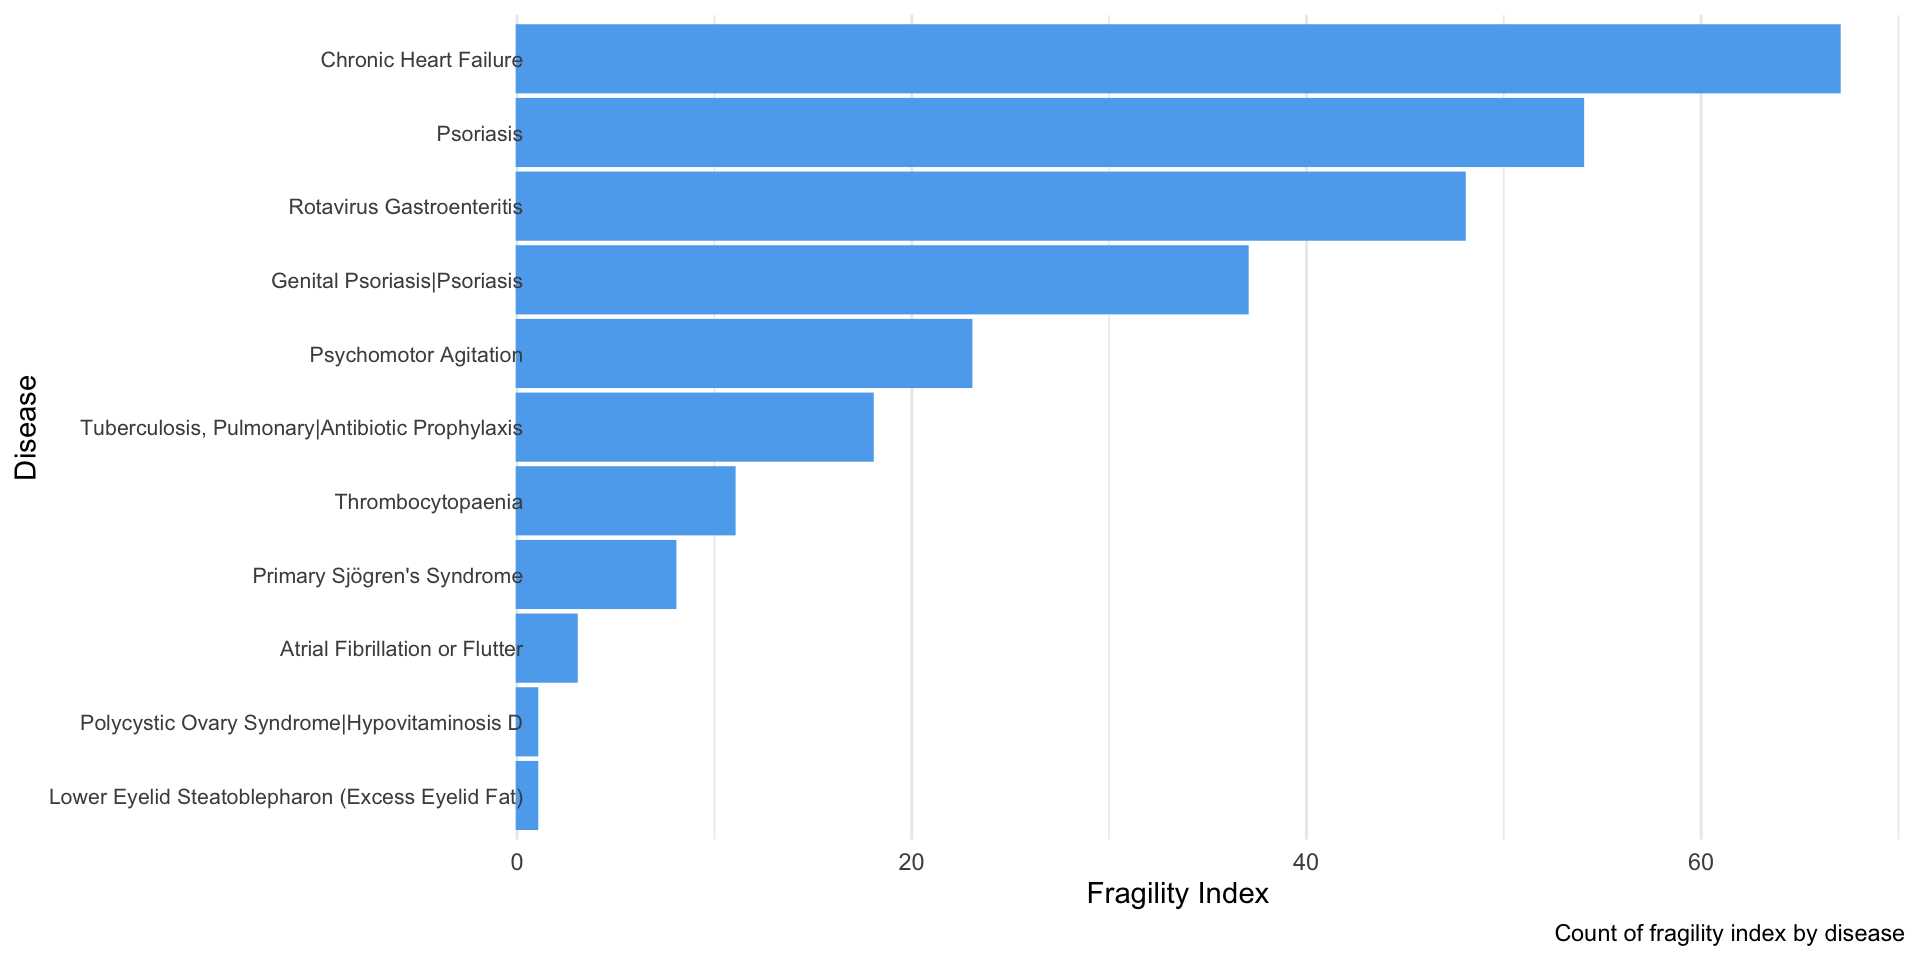
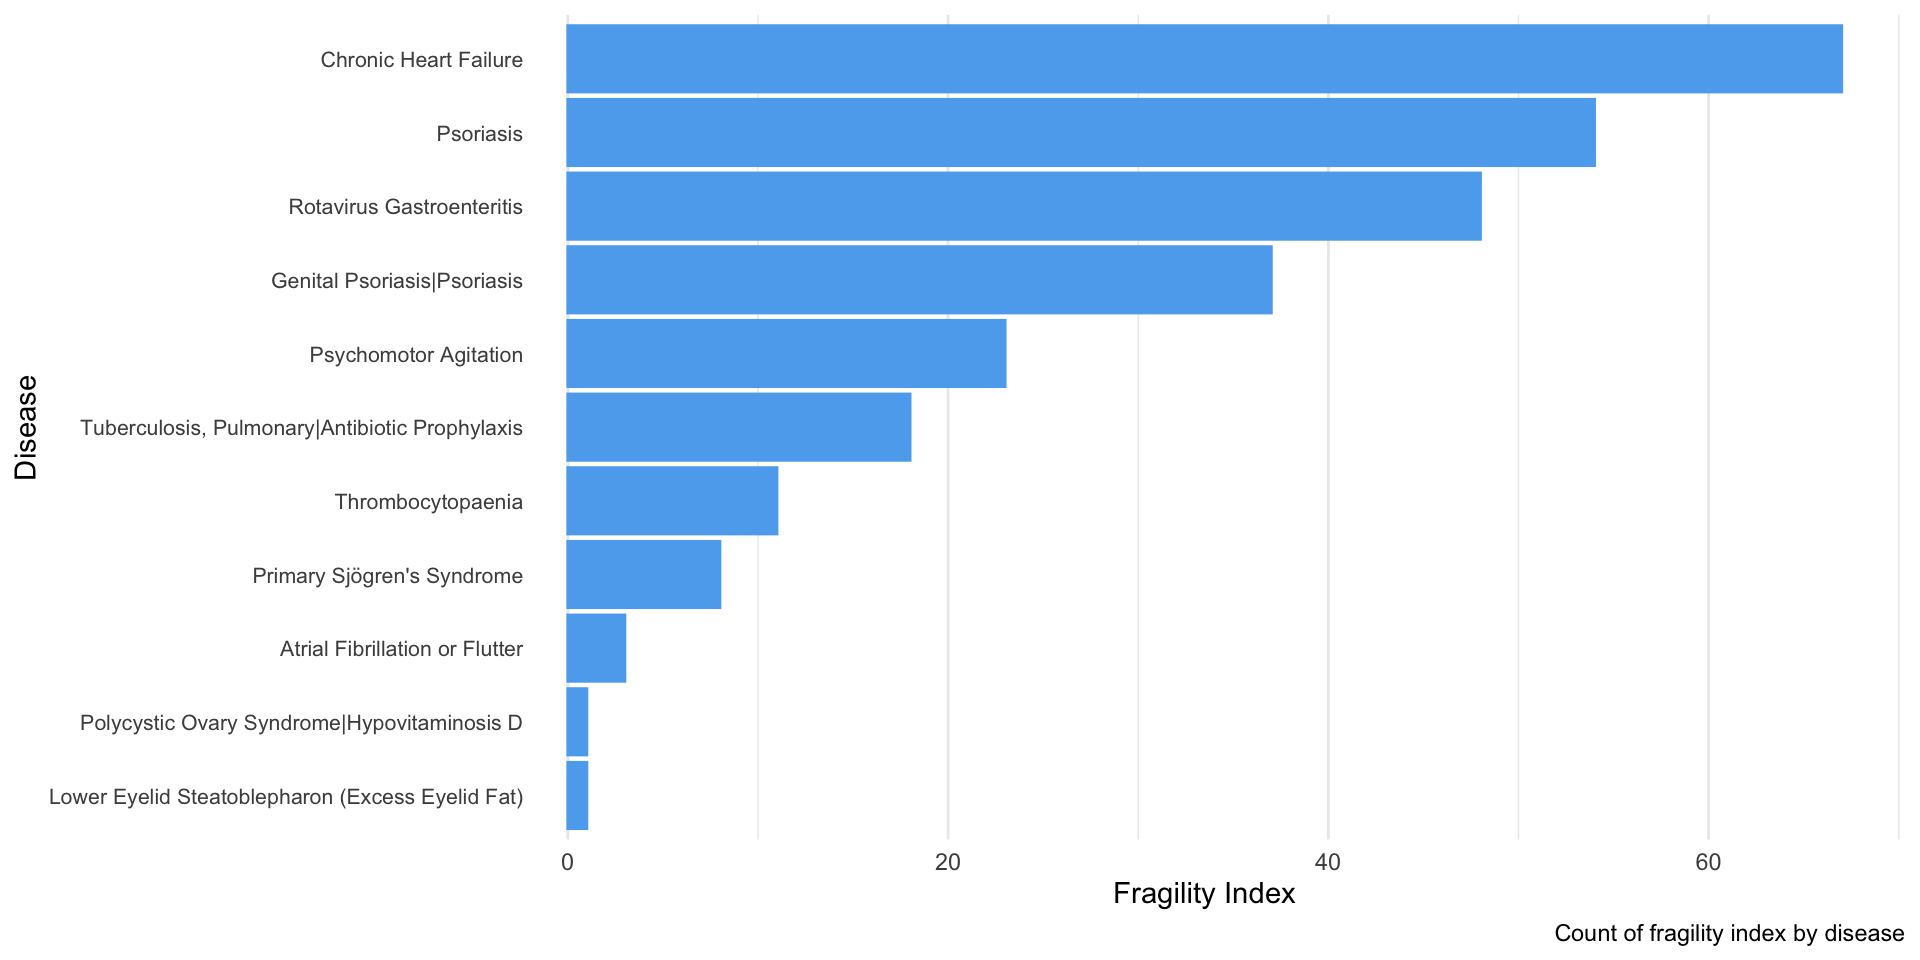
added minor changes to report

diff --git a/report.html b/report.html
@@ -652,7 +652,7 @@ content_test</code></pre>
 ## *                     &lt;dbl&gt;                      &lt;dbl&gt;                &lt;dbl&gt;
 ## 1                       212                        207                  200
 ## 2                       129                        131                   59</code></pre>
-<p>Though it took a while, our code managed to pull the relevant info that we need to manipulate in order to evaluate our fragility indexes. Our next step then, is to be able to <code>map</code> this and make a listcol within our original dataframe.</p>
+<p>Though it took a while, our code managed to pull the relevant info that we need to manipulate in order to evaluate our fragility indexes. Our next step then, is to be able to <code>map</code> this and make a listcol within our original dataframe. <br></br></p>
 </div>
 <div id="building-the-function-with-the-proper-conditions-and-mapping" class="section level5">
 <h5>Building the function with the proper conditions and mapping</h5>
@@ -715,7 +715,7 @@ mapped_ctgov_scrape_test &lt;- ctgov_scrape_test %&gt;%
     scrape_data = map(nct_id, outcome_extractor)
   ) %&gt;% 
   filter(!is.na(scrape_data))               # necessary step to clear out the NA rows.</code></pre>
-<p>We then checked those trials that contain 2x2 table from our original file but we only found 6 (uh oh). After realizing the situation we were in (yikes) and the amount of data we were likely able to get using the initial hypothesis (close to none), we expanded our initial search options to any completed phase 3 clinical trials.</p>
+<p>We then checked those trials that contain 2x2 table from our original file but we only found 6 (uh oh). After realizing the situation we were in (yikes) and the amount of data we were likely able to get using the initial hypothesis (close to none), we expanded our initial search options to any completed phase 3 clinical trials. <br></br></p>
 </div>
 <div id="mapping-our-10000-dataset" class="section level5">
 <h5>Mapping our 10,000 dataset</h5>
@@ -736,7 +736,7 @@ ctgov_10k_scraped &lt;- ctgov_10k_df %&gt;%
     scrape_data = map(nct_id, outcome_extractor)
   ) %&gt;% 
   filter(!is.na(scrape_data))               # necessary step to clear out the NA rows.</code></pre>
-<p>After all this, our resulting viable dataset is 620 datasets that each contains the primary outcomes of interest. There are roughly 394 unique conditions found using <code>distinct()</code> function.</p>
+<p>After all this, our resulting viable dataset is 620 datasets that each contains the primary outcomes of interest. There are roughly 394 unique conditions found using <code>distinct()</code> function. <br></br></p>
 </div>
 <div id="cleaning-the-scraped-dataset" class="section level5">
 <h5>Cleaning the Scraped Dataset</h5>
@@ -833,7 +833,7 @@ clean_final_df &lt;- left_join(final_df, temp_df, by = &quot;nct_id&quot;) </cod
 <li><code>total_number_placebo</code>: sample size in the control group</li>
 <li><code>effective_trt</code>: those that developed a response in treatment group</li>
 <li><code>effective_placebo</code>: those that developed a response in control group</li>
-<li><code>FI</code>: fragility index calculated using <code>fragilityindex::fragility.index</code></li>
+<li><code>FI</code>: fragility index calculated using <code>fragilityindex::fragility.index</code> <br></br></li>
 </ul>
 </div>
 <div id="eda-for-fragility-index" class="section level5">
@@ -1039,7 +1039,7 @@ clean_final_df %&gt;%
         axis.text.y = 
           element_text(hjust = 1, vjust = 0.5,                # adjusts the hor/ver alignment of y-variables
                        size = 8,                              # resize text size and rotate at an angle
-                       margin = margin(0, -30, 0, 0)),        # reduce margin to close gap between label/graph
+                       margin = margin(0, -10, 0, 0)),        # reduce margin to close gap between label/graph
         panel.grid.major.y = element_blank()                  # remove horizontal lines to improve readability
         ) + 
   labs(x = &quot;Disease&quot;, y = &quot;Fragility Index&quot;,
